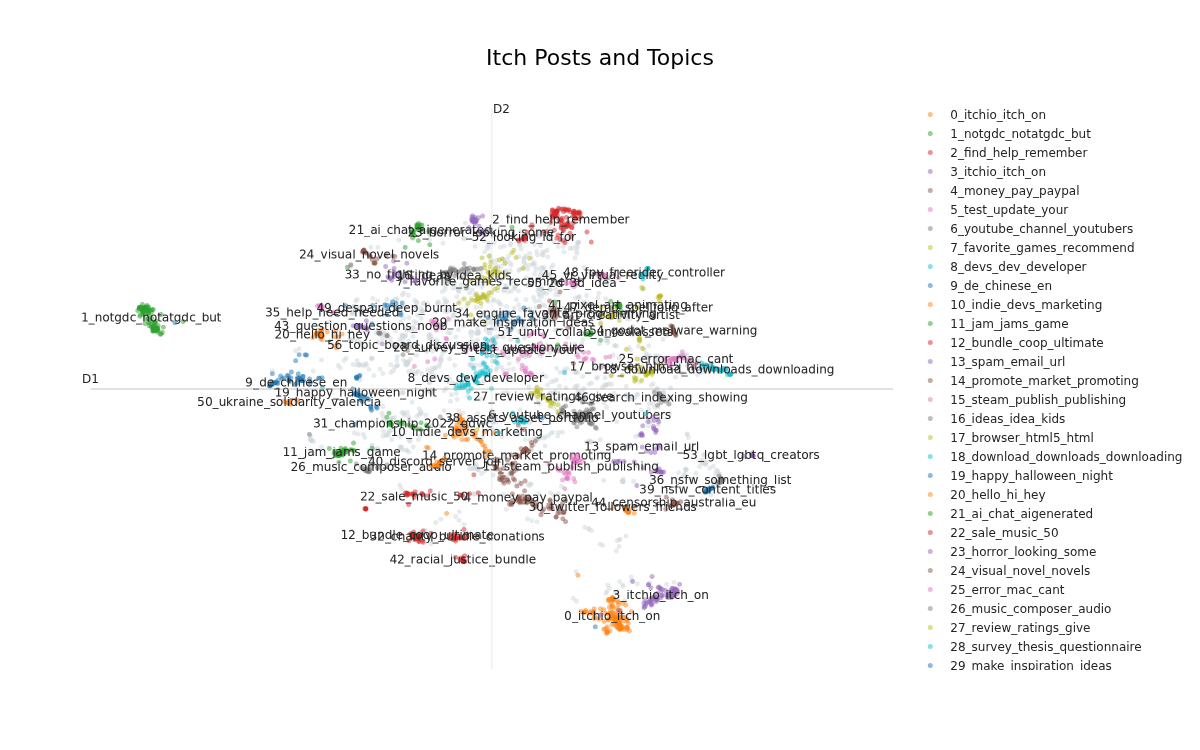
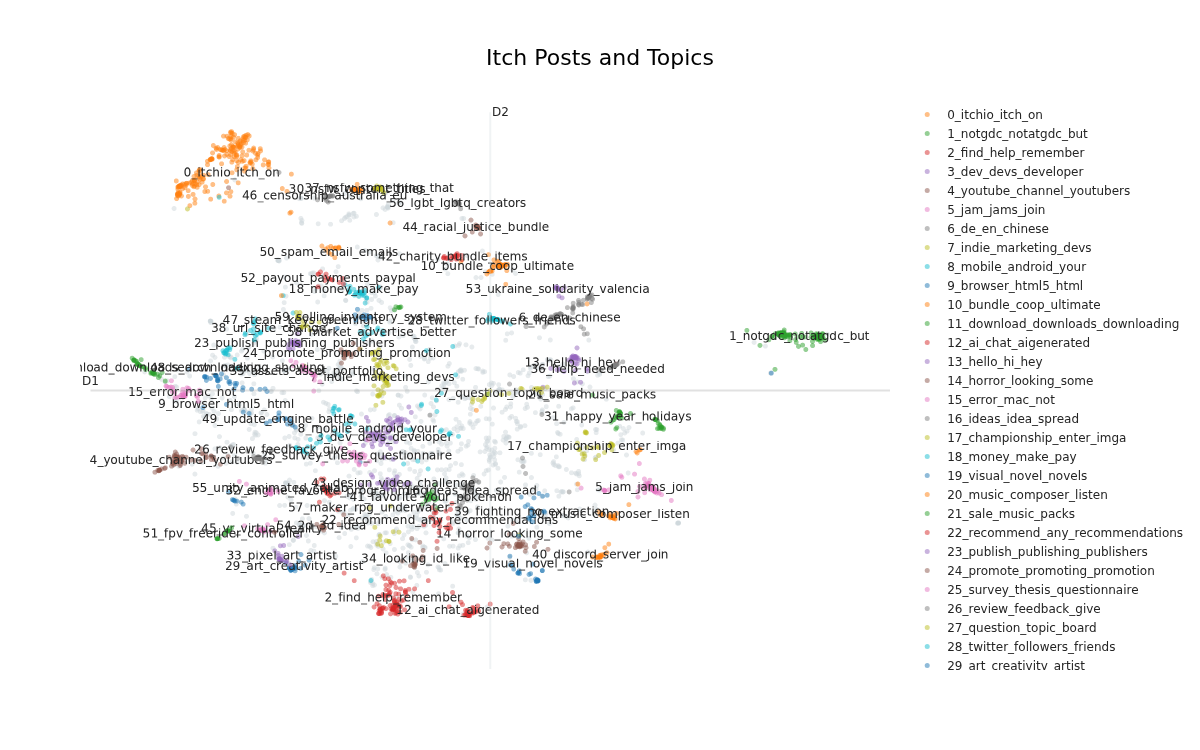
documentation

Changed region(s): [[0.0617, 0.1533, 0.7092, 0.8587], [0.7708, 0.1227, 0.9867, 0.8893], [0.4008, 0.1227, 0.4317, 0.1533]]

diff --git a/src/nlp.py b/src/nlp.py
@@ -21,6 +21,10 @@ def topic_model(src, embeddings, sentences):
     # Train BERTopic
     topic_model = topic_model.fit(sentences, embeddings)
 
+    # Save topics
+    df = get_topics_dataframe(topic_model)
+    df.to_csv(f"./data/{src}_topics.csv", index=False)
+
     # Run the visualization with the original embeddings
     topic_model.visualize_documents(sentences, embeddings=embeddings)
 
@@ -30,7 +34,7 @@ def topic_model(src, embeddings, sentences):
     ).fit_transform(embeddings)
     fig = topic_model.visualize_documents(
         sentences,
-        embeddings=reduced_embeddings,
+        embeddings=embeddings,
         title=f"{src.capitalize()} Posts and Topics",
     )
 
@@ -38,6 +42,15 @@ def topic_model(src, embeddings, sentences):
     fig.show()
     fig.write_image(f"./docs/plots/{src}_topic_graph.png")
 
+def get_topics_dataframe(topic_model):
+    topic_info = topic_model.get_topic_info()
+    # Clean the Name column by removing the leading topic number and underscore
+    topic_info["Cleaned Name"] = topic_info["Name"].apply(
+        lambda name: name.split("_", 1)[1] if "_" in name else name
+    )
+    # Select and rename columns for clarity
+    df = topic_info[["Topic", "Count", "Cleaned Name"]].rename(columns={"Cleaned Name": "Name"})
+    return df
 
 def cluster(embeddings, sentences):
     print("Start clustering")
@@ -68,19 +81,11 @@ def run():
     # 2. Calculate embeddings by calling model.encode()
     embeddings = model.encode(lines, batch_size=64, show_progress_bar=True)
 
-    # 2.5 Cluster sentences based on topics
+    # 3 Cluster sentences based on topics
     cluster(embeddings, lines)
 
-    # 2.6 Visualize topics
+    # 4 Visualize topics
     topic_model(src, embeddings, lines)
-
-    # 3. Calculate the embedding similarities
-    similarities = model.similarity(embeddings, embeddings)
-
-    df = pd.DataFrame(similarities.numpy())
-
-    # save
-    df.to_csv(f"./data/{src}.csv", index=True)
 
 
 run()

diff --git a/README.md b/README.md
@@ -14,6 +14,41 @@ The SentenceTransformers (SBERT) library was used to find the semantic similarit
 In this work we are focused on Paraphrase mining and Document (forum titles) clustering. SBERT works by encoding each sentence into a dense vector representation to capture semantic meaning.
 - SBERT contains 10,000 pre-trained models and in this work we made use of the model: `all-MiniLM-L6-v2`.
 
+**Top 25 Most Captured topics**
+
+| Topic Ranking | Steam Posts | Steam Topic                             | Itch Posts | Itch Topic                              |
+|---------------|-------------|-----------------------------------------|------------|-----------------------------------------|
+| 1             | 2275        | the_is_of_on                            | 1146       | games_to_you_how                        |
+| 2             | 247         | putin_vac_ya_squad                      | 225        | itchio_itch_on_the                      |
+| 3             | 107         | market_inventory_community_open         | 116        | notgdc_notatgdc_but_gdc                 |
+| 4             | 85          | de_el_para_que                          | 88         | find_help_remember_played               |
+| 5             | 68          | account_hacked_got_ea                   | 67         | dev_devs_developer_journey              |
+| 6             | 67          | life_you_die_woke                       | 66         | youtube_channel_youtubers_play          |
+| 7             | 60          | gift_gifting_region_card                | 56         | jam_jams_join_game                      |
+| 8             | 60          | controller_xbox_controllers_switch      | 55         | de_en_chinese_localization              |
+| 9             | 60          | looking_recommend_game_games            | 55         | indie_marketing_devs_postmortem         |
+| 10            | 57          | cs2_cs_cheaters_vac                     | 51         | mobile_android_your_first               |
+| 11            | 54          | idk_go_guh_haha                         | 42         | browser_html5_html_pages                |
+| 12            | 54          | library_free_dlc_delete                 | 41         | bundle_coop_ultimate_bundles            |
+| 13            | 52          | banned_ban_moderators_unban             | 35         | download_downloads_downloading_views    |
+| 14            | 50          | 11_windows_10_civ                       | 34         | ai_chat_aigenerated_aipowered           |
+| 15            | 48          | deck_steamdeck_diablo_lossless          | 34         | hello_hi_hey_nice                       |
+| 16            | 45          | overlay_guide_performance_scale         | 34         | horror_looking_some_combat              |
+| 17            | 43          | help_need_me_title                      | 33         | error_mac_not_cant                      |
+| 18            | 42          | auf_ashuvaxpretentieux_iossteam_nba2k26 | 29         | ideas_idea_spread_game                  |
+| 19            | 42          | music_metal_song_rock                   | 28         | championship_enter_imga_global          |
+| 20            | 41          | reviews_review_neutral_filter           | 27         | money_make_pay_much                     |
+| 21            | 41          | mac_linux_os_windows                    | 27         | visual_novel_novels_furry               |
+| 22            | 40          | ui_store_old_new                        | 24         | music_composer_listen_listening         |
+| 23            | 40          | achievements_achievement_showcase_dlc   | 24         | sale_music_packs_50                     |
+| 24            | 40          | friends_looking_friend_making           | 23         | recommend_any_recommendations_games     |
+| 25            | 40          | gpu_rtx_upgrade_gtx                     | 22         | publish_publishing_publishers_publisher |
+
+
+The rest of the captured topics can be seen at:
+- `./data/itch_topics.csv`
+- `./data/steam_topics.csv`
+
 
 # Visitation with Plotly
 
@@ -30,11 +65,19 @@ The SBERT library has a self contain Visitation framework which exports a [Plotl
 Python and the dependencies in `.venv` are required
 
 1. Clone this repo using git clone
-2. In the command line run the python scrip and specify which source you want to graph e.g.: `python nlp.py "steam"` 
+```bash
+git clone [REPO]
+```
+2. In the command line run the python scrip and specify which source you want to graph
+```bash
+python nlp.py "steam"
+```
 3. The interactive graph will open in browser
 
 # Further Research
 
 More forums can be scraped for other sources such as Reddit and further sub-forums from Steam and Itch could also be analysed.
 
-Citations for this research can be found in the docs folder in this repo
+## Citations 
+
+The relevant citations for this research can be found in the docs folder in this repo
